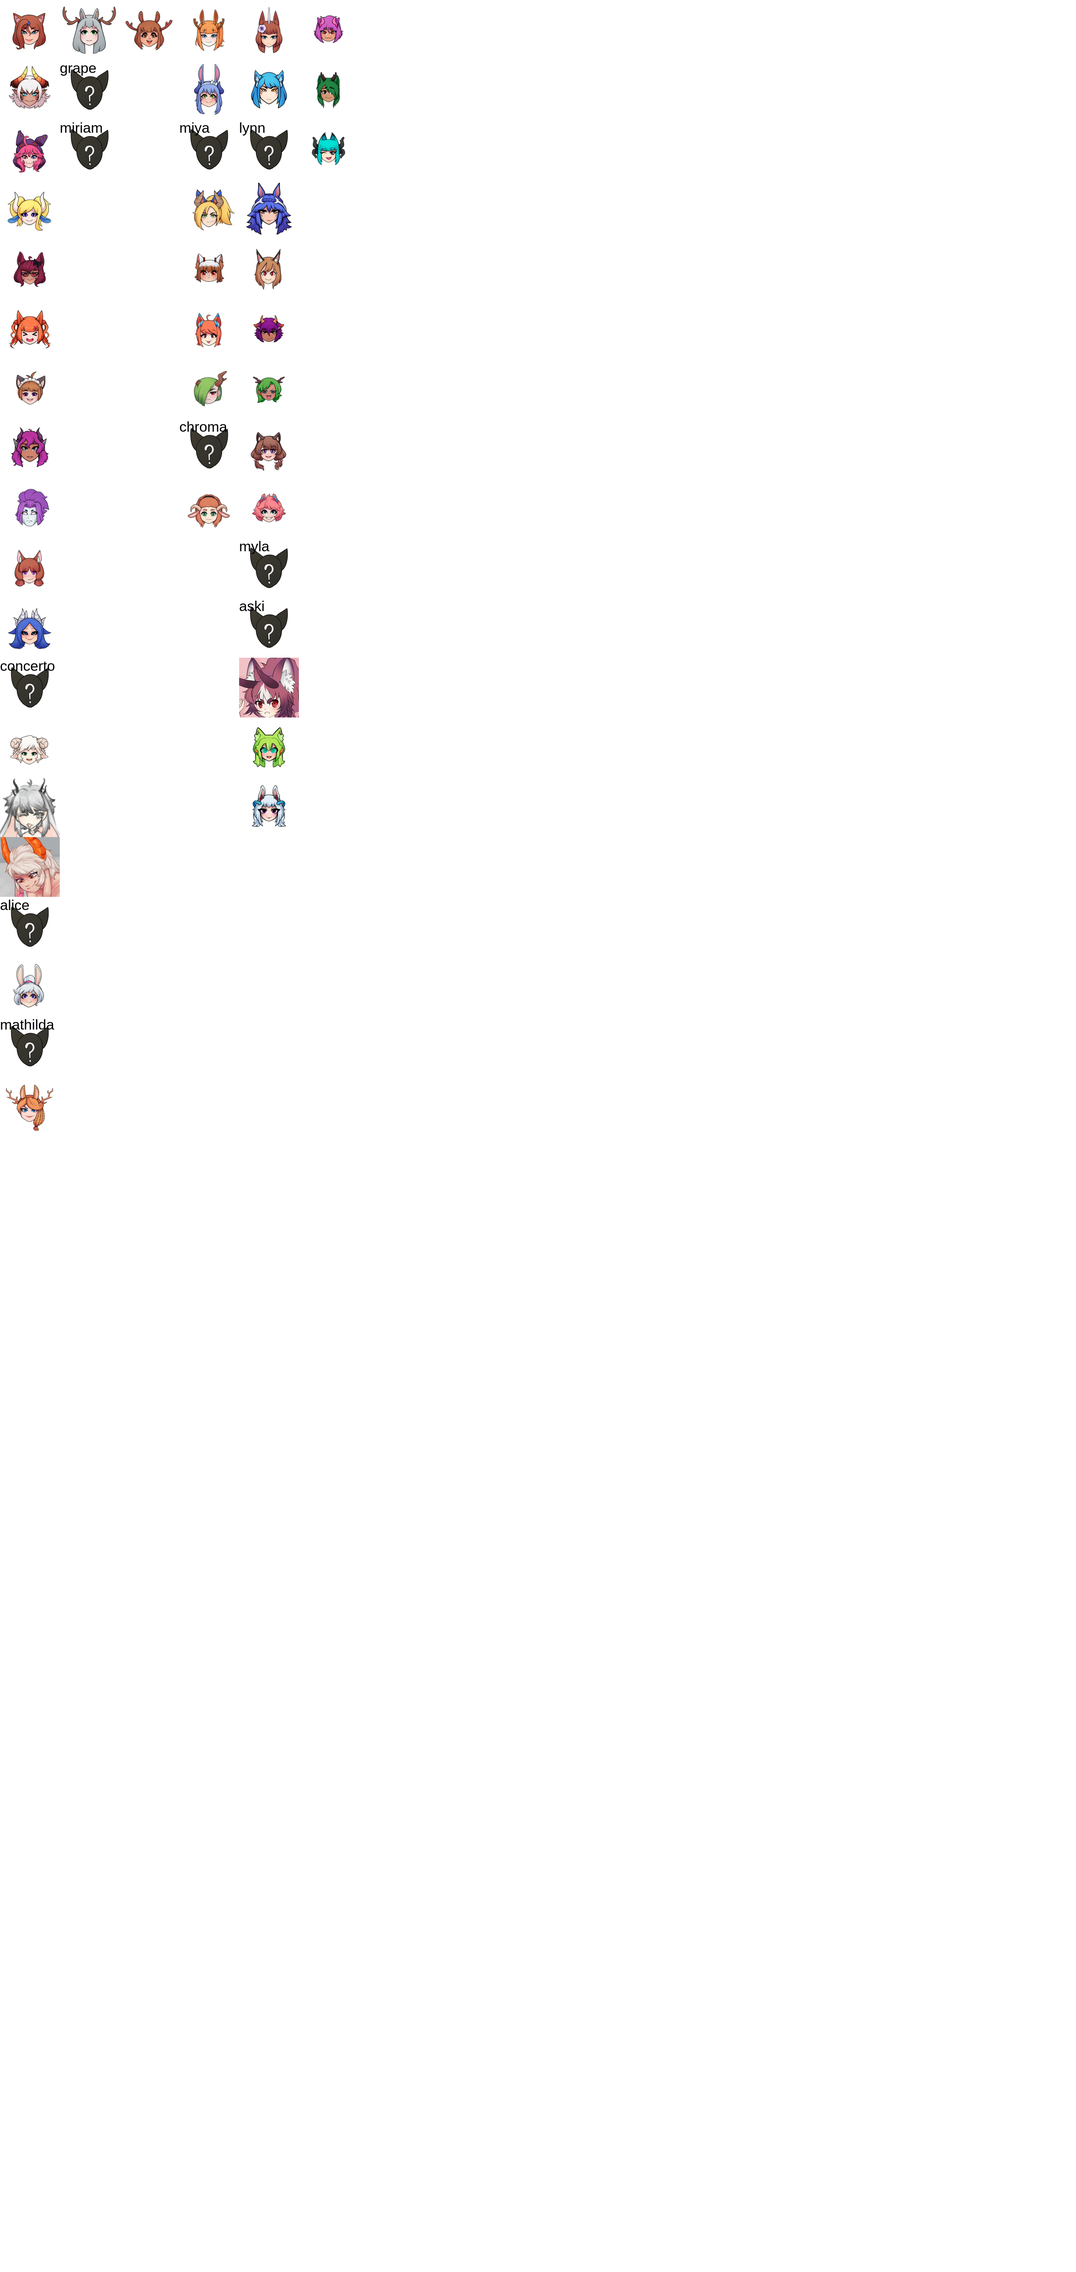
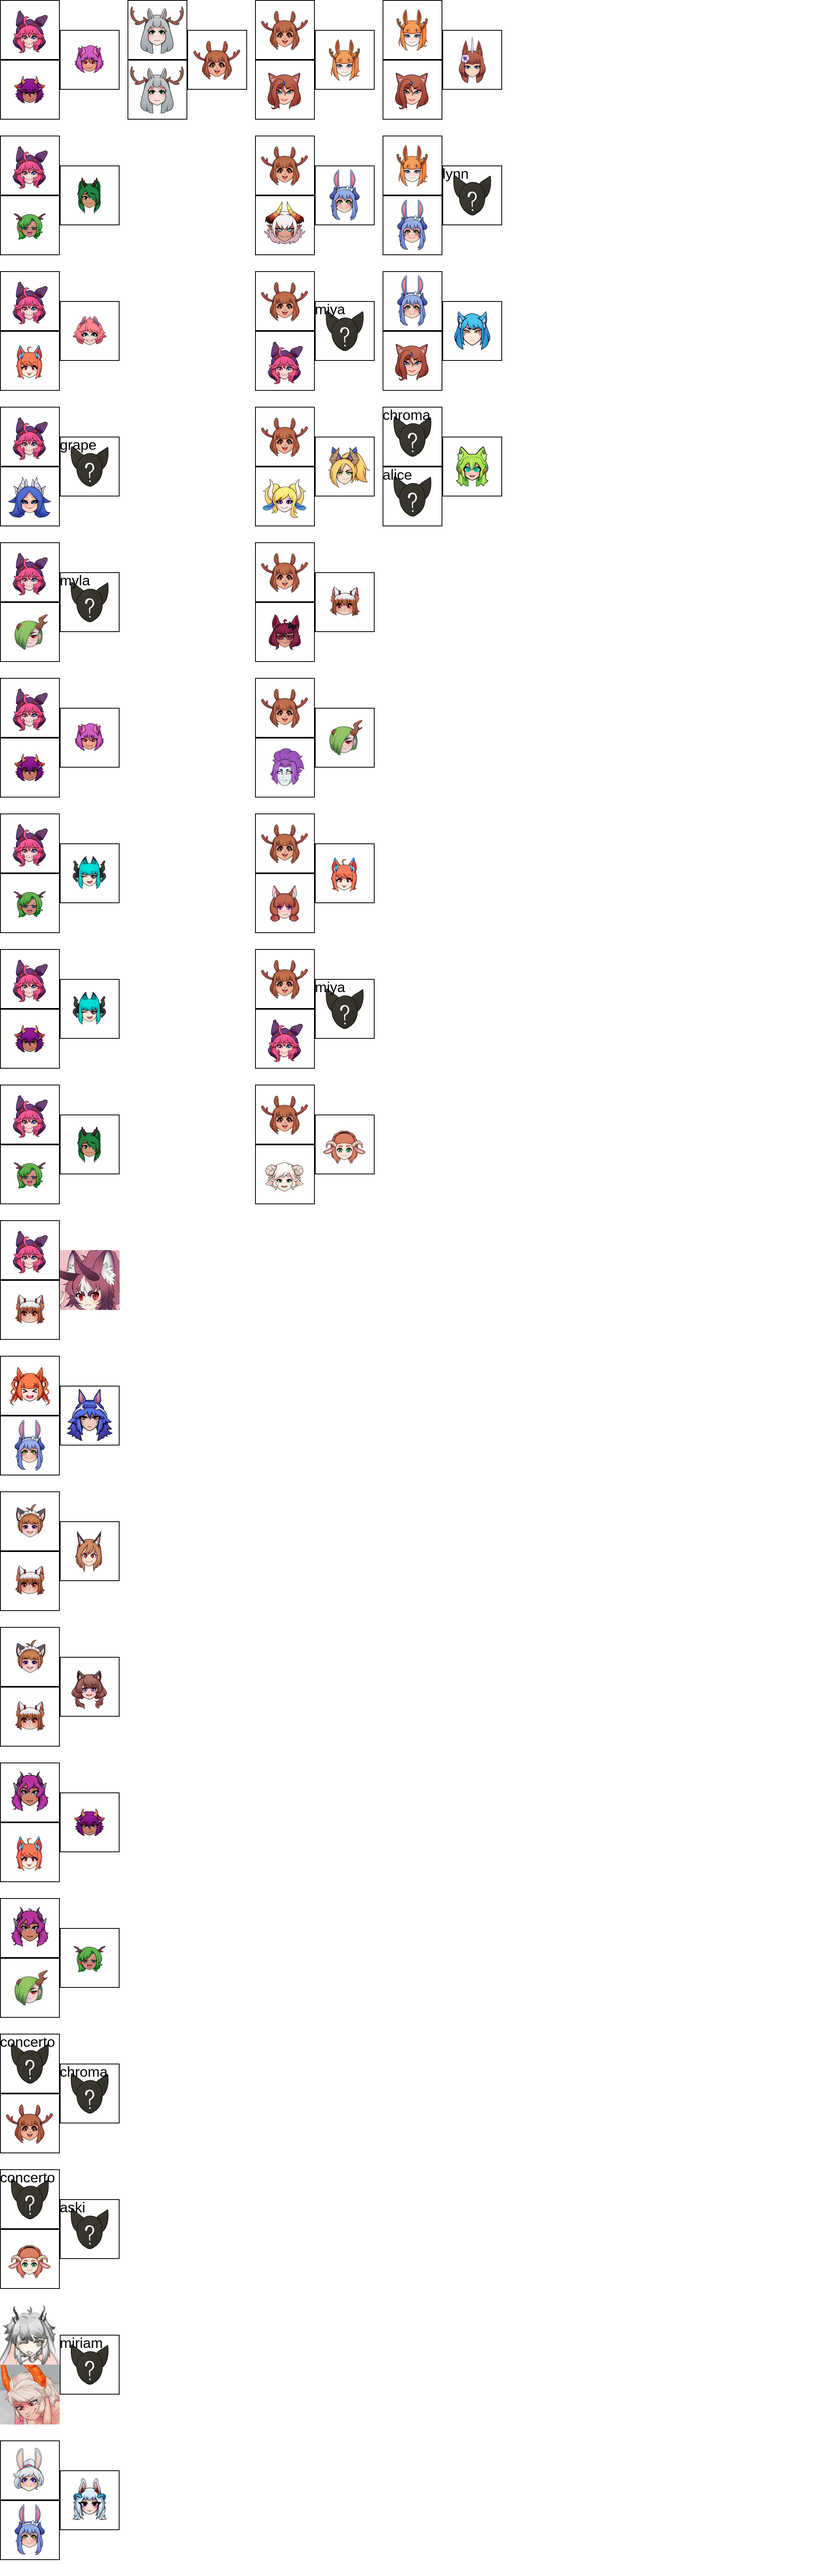
still sorta working

diff --git a/newtree.py b/newtree.py
@@ -5,6 +5,7 @@ import os
 folder_path = 'portraits'
 images = {}
 OC_SIZE = 150
+SPACING = 20
 
 class Person:
     def __init__(self, name, mom=None, dad=None):
@@ -57,9 +58,9 @@ with open("families.txt", "r") as f:
         people[fam[0]].mom = people[fam[1]]
         people[fam[0]].dad = people[fam[2]]
         if fam[2] not in people[fam[1]].sires:
-            people[fam[1]].sires.append(fam[2])
+            people[fam[1]].sires.append((fam[2], fam[0], max(people[fam[1]].getlevel(), people[fam[2]].getlevel())))
         if fam[1] not in people[fam[2]].dams:
-            people[fam[2]].dams.append(fam[1])
+            people[fam[2]].dams.append((fam[1], fam[0], max(people[fam[1]].getlevel(), people[fam[2]].getlevel())))
 
 
 print(people["aoife"].dams)
@@ -110,26 +111,59 @@ maxlevel = max(levels) + 1
 maxheight = max([levels.count(x) for x in range(maxlevel)])
 
 # Create a new image for the table
-table_width = maxlevel * OC_SIZE * 3
-table_height = maxheight * OC_SIZE * 2
+table_width = maxlevel * (OC_SIZE + SPACING) * 2
+table_height = maxheight * (OC_SIZE + SPACING) * 2
 table_image = Image.new('RGB', (table_width, table_height), (255, 255, 255))
 draw = ImageDraw.Draw(table_image)
 
+
+births = [people[p].sires for p in people]
+#let's start with moms
 for i in range(0, maxlevel):
     j = 0
     for p in people:
         person = people[p]
-        if person.getlevel() == i:
-            try:
-                table_image.paste(images[person.name], (i*OC_SIZE, j*OC_SIZE), images[person.name])
-            except KeyError:
-                # If the image doesn't exist, draw the name instead
-                table_image.paste(images['unknown'], (i*OC_SIZE, j*OC_SIZE), images['unknown'])
-                draw.text((i*OC_SIZE, j*OC_SIZE), person.name, font=font, fill=(0, 0, 0))
-            except ValueError:
-                #this portrait isn't transparent
-                table_image.paste(images[person.name], (i*OC_SIZE, j*OC_SIZE))
-            j = j + 1
+        if person.getlevel() == i and len(person.sires) > 0:
+            for other in person.sires:
+                dad = people[other[0]]
+                kid = people[other[1]]
+                mompos = (i*OC_SIZE*2 + i*SPACING, j*OC_SIZE + j*SPACING)
+                dadpos = (i*OC_SIZE*2 + i*SPACING, j*OC_SIZE + OC_SIZE + j*SPACING)
+                kidpos = (i*OC_SIZE*2 + OC_SIZE + i*SPACING, j*OC_SIZE + OC_SIZE//2 + j*SPACING)
+
+                for box in [mompos, dadpos, kidpos]:
+                    draw.rectangle((box[0], box[1], box[0] + OC_SIZE - 1, box[1] + OC_SIZE - 1), outline="black", width=2)
+                
+                try:
+                    table_image.paste(images[person.name], mompos, images[person.name])
+                except KeyError:
+                    # If the image doesn't exist, draw the name instead
+                    table_image.paste(images['unknown'], mompos, images['unknown'])
+                    draw.text(mompos, person.name, font=font, fill=(0, 0, 0))
+                except ValueError:
+                    #this portrait isn't transparent
+                    table_image.paste(images[person.name], mompos)
+
+                try:
+                    table_image.paste(images[dad.name], dadpos, images[dad.name])
+                except KeyError:
+                    # If the image doesn't exist, draw the name instead
+                    table_image.paste(images['unknown'], dadpos, images['unknown'])
+                    draw.text(dadpos, dad.name, font=font, fill=(0, 0, 0))
+                except ValueError:
+                    #this portrait isn't transparent
+                    table_image.paste(images[dad.name], dadpos)
+
+                try:
+                    table_image.paste(images[kid.name], kidpos, images[kid.name])
+                except KeyError:
+                    # If the image doesn't exist, draw the name instead
+                    table_image.paste(images['unknown'], kidpos, images['unknown'])
+                    draw.text(kidpos, kid.name, font=font, fill=(0, 0, 0))
+                except ValueError:
+                    #this portrait isn't transparent
+                    table_image.paste(images[kid.name], kidpos)
+                j = j + 2
 
 
 # Save the table image to a file
